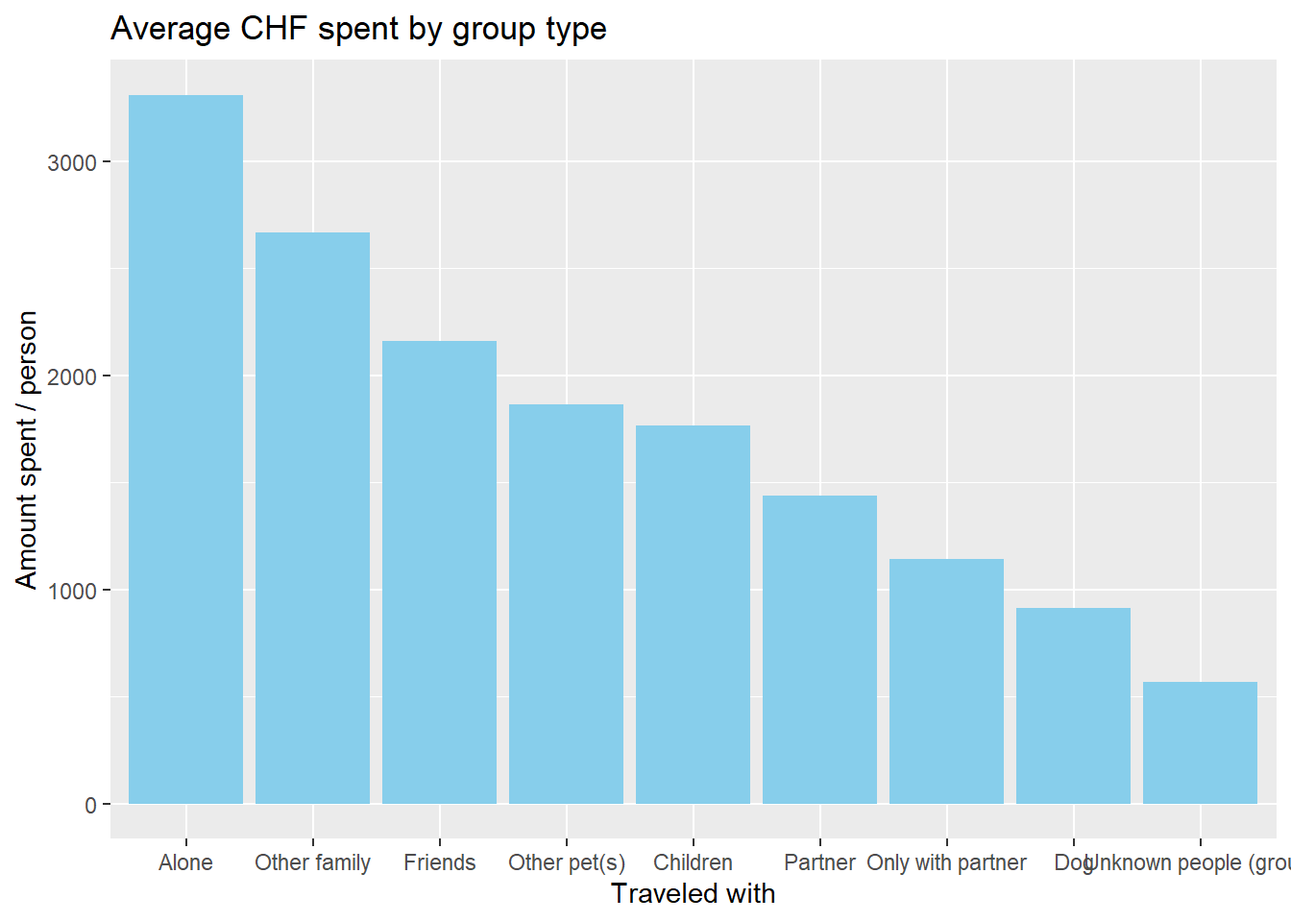
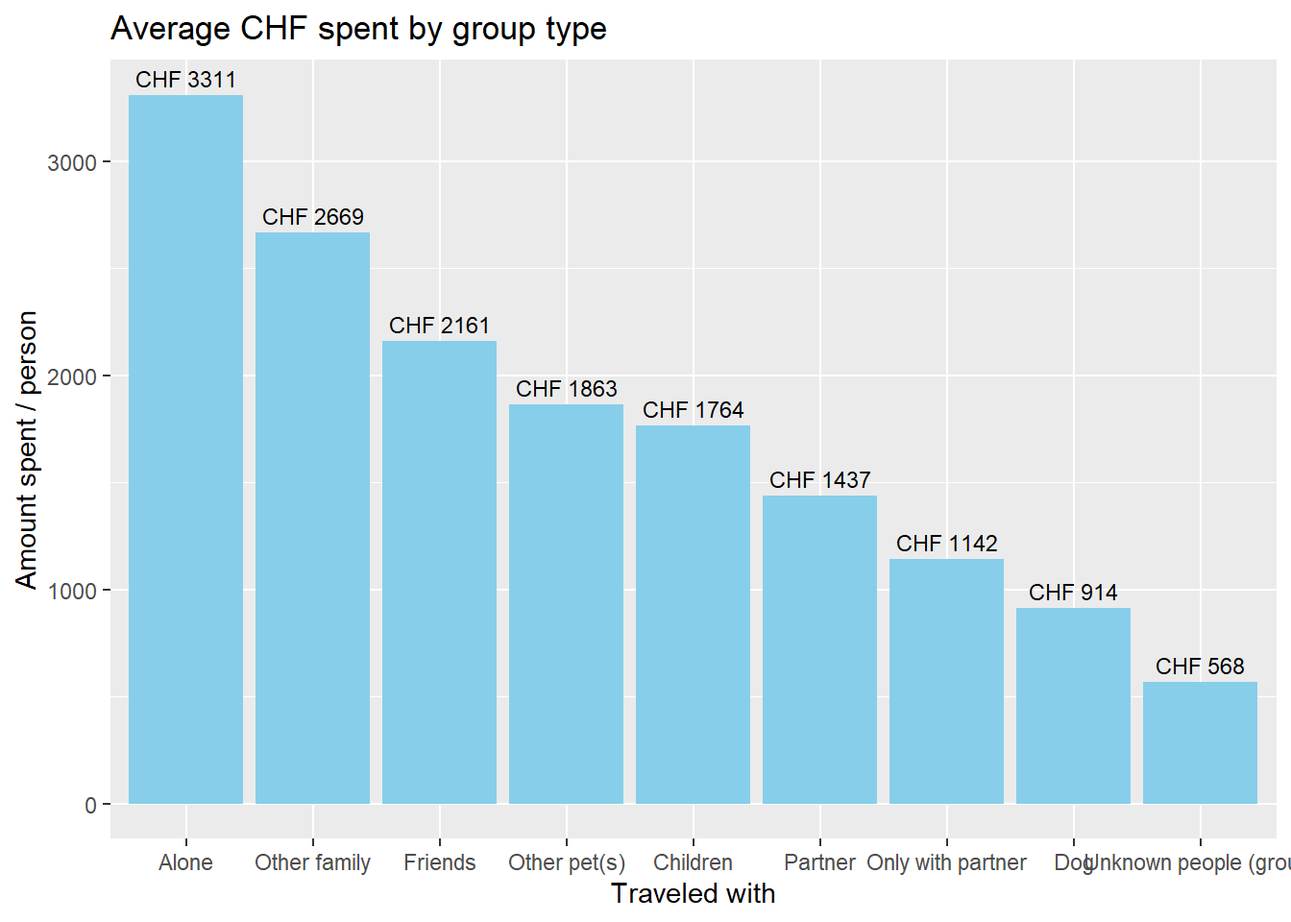
analysis

diff --git a/report/analysis.html b/report/analysis.html
@@ -97,10 +97,167 @@ pre > code.sourceCode > span > a:first-child::before { text-decoration: underlin
 <div class="sourceCode cell-code" id="cb2"><pre class="sourceCode r code-with-copy"><code class="sourceCode r"><span id="cb2-1"><a href="#cb2-1" aria-hidden="true" tabindex="-1"></a><span class="co">#Plot frequency</span></span>
 <span id="cb2-2"><a href="#cb2-2" aria-hidden="true" tabindex="-1"></a><span class="fu">ggplot</span>(df_sums_df, <span class="fu">aes</span>(<span class="at">x =</span> Column, <span class="at">y =</span> Spent)) <span class="sc">+</span></span>
 <span id="cb2-3"><a href="#cb2-3" aria-hidden="true" tabindex="-1"></a>  <span class="fu">geom_bar</span>(<span class="at">stat =</span> <span class="st">"identity"</span>, <span class="at">fill =</span> <span class="st">"skyblue"</span>) <span class="sc">+</span></span>
-<span id="cb2-4"><a href="#cb2-4" aria-hidden="true" tabindex="-1"></a>  <span class="fu">labs</span>(<span class="at">title =</span> <span class="st">"Average CHF spent by group type"</span>, <span class="at">x =</span> <span class="st">"Traveled with"</span>, <span class="at">y =</span> <span class="st">"Amount spent / person"</span>)</span></code><button title="Copy to Clipboard" class="code-copy-button"><i class="bi"></i></button></pre></div>
+<span id="cb2-4"><a href="#cb2-4" aria-hidden="true" tabindex="-1"></a>  <span class="fu">geom_text</span>(<span class="fu">aes</span>(<span class="at">label =</span> <span class="fu">paste0</span>(<span class="st">"CHF "</span>, <span class="fu">round</span>(Spent, <span class="dv">0</span>))), <span class="at">vjust =</span> <span class="sc">-</span><span class="fl">0.5</span>, <span class="at">size =</span> <span class="dv">3</span>, <span class="at">color =</span> <span class="st">"black"</span>) <span class="sc">+</span></span>
+<span id="cb2-5"><a href="#cb2-5" aria-hidden="true" tabindex="-1"></a>  <span class="fu">labs</span>(<span class="at">title =</span> <span class="st">"Average CHF spent by group type"</span>, <span class="at">x =</span> <span class="st">"Traveled with"</span>, <span class="at">y =</span> <span class="st">"Amount spent / person"</span>)</span></code><button title="Copy to Clipboard" class="code-copy-button"><i class="bi"></i></button></pre></div>
 </details>
 <div class="cell-output-display">
 <p><img src="analysis_files/figure-html/unnamed-chunk-3-1.png" class="img-fluid" width="672"></p>
+</div>
+</div>
+<p>Here we have calcuated the average total CHF spent during a trip to Vaud, per person, depending on who the respondent has traveled with.</p>
+</section>
+<section id="travel-group-type-by-nation" class="level2">
+<h2 class="anchored" data-anchor-id="travel-group-type-by-nation">Travel group type by nation</h2>
+<div class="cell">
+<details>
+<summary>Code</summary>
+<div class="sourceCode cell-code" id="cb3"><pre class="sourceCode r code-with-copy"><code class="sourceCode r"><span id="cb3-1"><a href="#cb3-1" aria-hidden="true" tabindex="-1"></a><span class="co"># Type of groups x Country of origin</span></span>
+<span id="cb3-2"><a href="#cb3-2" aria-hidden="true" tabindex="-1"></a><span class="co"># Create bin columns for top 5 countries</span></span>
+<span id="cb3-3"><a href="#cb3-3" aria-hidden="true" tabindex="-1"></a>data<span class="sc">$</span>swiss <span class="ot">&lt;-</span> <span class="fu">ifelse</span>(data<span class="sc">$</span>F05_02 <span class="sc">==</span> <span class="st">"Schweiz"</span>, <span class="dv">1</span>, <span class="dv">0</span>)</span>
+<span id="cb3-4"><a href="#cb3-4" aria-hidden="true" tabindex="-1"></a>data<span class="sc">$</span>french <span class="ot">&lt;-</span> <span class="fu">ifelse</span>(data<span class="sc">$</span>F05_02 <span class="sc">==</span> <span class="st">"Frankreich"</span>, <span class="dv">1</span>, <span class="dv">0</span>)</span>
+<span id="cb3-5"><a href="#cb3-5" aria-hidden="true" tabindex="-1"></a>data<span class="sc">$</span>british <span class="ot">&lt;-</span> <span class="fu">ifelse</span>(data<span class="sc">$</span>F05_02_ENG <span class="sc">==</span> <span class="st">"United Kingdom"</span>, <span class="dv">1</span>, <span class="dv">0</span>)</span>
+<span id="cb3-6"><a href="#cb3-6" aria-hidden="true" tabindex="-1"></a>data<span class="sc">$</span>german <span class="ot">&lt;-</span> <span class="fu">ifelse</span>(data<span class="sc">$</span>F05_02 <span class="sc">==</span> <span class="st">"Deutschland"</span>, <span class="dv">1</span>, <span class="dv">0</span>)</span>
+<span id="cb3-7"><a href="#cb3-7" aria-hidden="true" tabindex="-1"></a>data<span class="sc">$</span>american <span class="ot">&lt;-</span> <span class="fu">ifelse</span>(data<span class="sc">$</span>F05_02_ENG <span class="sc">==</span> <span class="st">"United States of America"</span>, <span class="dv">1</span>, <span class="dv">0</span>)</span>
+<span id="cb3-8"><a href="#cb3-8" aria-hidden="true" tabindex="-1"></a></span>
+<span id="cb3-9"><a href="#cb3-9" aria-hidden="true" tabindex="-1"></a><span class="co"># Add columns to df</span></span>
+<span id="cb3-10"><a href="#cb3-10" aria-hidden="true" tabindex="-1"></a>df<span class="sc">$</span>swiss <span class="ot">&lt;-</span> data<span class="sc">$</span>swiss</span>
+<span id="cb3-11"><a href="#cb3-11" aria-hidden="true" tabindex="-1"></a>df<span class="sc">$</span>french <span class="ot">&lt;-</span> data<span class="sc">$</span>french</span>
+<span id="cb3-12"><a href="#cb3-12" aria-hidden="true" tabindex="-1"></a>df<span class="sc">$</span>british <span class="ot">&lt;-</span> data<span class="sc">$</span>british</span>
+<span id="cb3-13"><a href="#cb3-13" aria-hidden="true" tabindex="-1"></a>df<span class="sc">$</span>german <span class="ot">&lt;-</span> data<span class="sc">$</span>german</span>
+<span id="cb3-14"><a href="#cb3-14" aria-hidden="true" tabindex="-1"></a>df<span class="sc">$</span>american <span class="ot">&lt;-</span> data<span class="sc">$</span>american</span>
+<span id="cb3-15"><a href="#cb3-15" aria-hidden="true" tabindex="-1"></a></span>
+<span id="cb3-16"><a href="#cb3-16" aria-hidden="true" tabindex="-1"></a><span class="co"># Create new df</span></span>
+<span id="cb3-17"><a href="#cb3-17" aria-hidden="true" tabindex="-1"></a>column_names <span class="ot">&lt;-</span> <span class="fu">c</span>(<span class="st">"column_name"</span>, <span class="st">"group_name"</span>, <span class="st">"swiss"</span>, <span class="st">"french"</span>, <span class="st">"british"</span>, <span class="st">"german"</span>, <span class="st">"american"</span>)</span>
+<span id="cb3-18"><a href="#cb3-18" aria-hidden="true" tabindex="-1"></a>rows <span class="ot">&lt;-</span> <span class="fu">c</span>(<span class="st">"Alone"</span>, <span class="st">"Partner"</span>, <span class="st">"Friends"</span>, <span class="st">"Children"</span>, <span class="st">"Other family"</span>, </span>
+<span id="cb3-19"><a href="#cb3-19" aria-hidden="true" tabindex="-1"></a>          <span class="st">"Unknown people (group)"</span>, <span class="st">"Dog"</span>, <span class="st">"Other pet(s)"</span>, <span class="st">"Only with partner"</span>)</span>
+<span id="cb3-20"><a href="#cb3-20" aria-hidden="true" tabindex="-1"></a>nations_groups <span class="ot">&lt;-</span> <span class="fu">data.frame</span>(<span class="fu">matrix</span>(<span class="at">ncol=</span><span class="fu">length</span>(column_names), <span class="at">nrow =</span> <span class="fu">length</span>(rows)))</span>
+<span id="cb3-21"><a href="#cb3-21" aria-hidden="true" tabindex="-1"></a><span class="fu">colnames</span>(nations_groups) <span class="ot">&lt;-</span> column_names</span>
+<span id="cb3-22"><a href="#cb3-22" aria-hidden="true" tabindex="-1"></a>nations_groups<span class="sc">$</span>group_name <span class="ot">&lt;-</span> rows</span>
+<span id="cb3-23"><a href="#cb3-23" aria-hidden="true" tabindex="-1"></a>nations_groups<span class="sc">$</span>column_name <span class="ot">&lt;-</span> <span class="fu">colnames</span>(df)[<span class="dv">1</span><span class="sc">:</span><span class="fu">nrow</span>(nations_groups)]</span>
+<span id="cb3-24"><a href="#cb3-24" aria-hidden="true" tabindex="-1"></a></span>
+<span id="cb3-25"><a href="#cb3-25" aria-hidden="true" tabindex="-1"></a><span class="co"># Initialize a list to store sums for each nation</span></span>
+<span id="cb3-26"><a href="#cb3-26" aria-hidden="true" tabindex="-1"></a>sums_list <span class="ot">&lt;-</span> <span class="fu">list</span>()</span>
+<span id="cb3-27"><a href="#cb3-27" aria-hidden="true" tabindex="-1"></a></span>
+<span id="cb3-28"><a href="#cb3-28" aria-hidden="true" tabindex="-1"></a><span class="co"># Iterate over each row in nations_groups dataframe</span></span>
+<span id="cb3-29"><a href="#cb3-29" aria-hidden="true" tabindex="-1"></a><span class="cf">for</span> (i <span class="cf">in</span> <span class="dv">1</span><span class="sc">:</span><span class="fu">nrow</span>(nations_groups)) {</span>
+<span id="cb3-30"><a href="#cb3-30" aria-hidden="true" tabindex="-1"></a>  <span class="co"># Get the column name and group name from the current row</span></span>
+<span id="cb3-31"><a href="#cb3-31" aria-hidden="true" tabindex="-1"></a>  column_name <span class="ot">&lt;-</span> nations_groups[i, <span class="st">"column_name"</span>]</span>
+<span id="cb3-32"><a href="#cb3-32" aria-hidden="true" tabindex="-1"></a>  group_name <span class="ot">&lt;-</span> nations_groups[i, <span class="st">"group_name"</span>]</span>
+<span id="cb3-33"><a href="#cb3-33" aria-hidden="true" tabindex="-1"></a>  </span>
+<span id="cb3-34"><a href="#cb3-34" aria-hidden="true" tabindex="-1"></a>  <span class="co"># Calculate sum for each nation</span></span>
+<span id="cb3-35"><a href="#cb3-35" aria-hidden="true" tabindex="-1"></a>  sums <span class="ot">&lt;-</span> <span class="fu">c</span>(</span>
+<span id="cb3-36"><a href="#cb3-36" aria-hidden="true" tabindex="-1"></a>    <span class="fu">sum</span>(df[df<span class="sc">$</span>swiss <span class="sc">==</span> <span class="dv">1</span>, column_name], <span class="at">na.rm =</span> <span class="cn">TRUE</span>),</span>
+<span id="cb3-37"><a href="#cb3-37" aria-hidden="true" tabindex="-1"></a>    <span class="fu">sum</span>(df[df<span class="sc">$</span>french <span class="sc">==</span> <span class="dv">1</span>, column_name], <span class="at">na.rm =</span> <span class="cn">TRUE</span>),</span>
+<span id="cb3-38"><a href="#cb3-38" aria-hidden="true" tabindex="-1"></a>    <span class="fu">sum</span>(df[df<span class="sc">$</span>british <span class="sc">==</span> <span class="dv">1</span>, column_name], <span class="at">na.rm =</span> <span class="cn">TRUE</span>),</span>
+<span id="cb3-39"><a href="#cb3-39" aria-hidden="true" tabindex="-1"></a>    <span class="fu">sum</span>(df[df<span class="sc">$</span>german <span class="sc">==</span> <span class="dv">1</span>, column_name], <span class="at">na.rm =</span> <span class="cn">TRUE</span>),</span>
+<span id="cb3-40"><a href="#cb3-40" aria-hidden="true" tabindex="-1"></a>    <span class="fu">sum</span>(df[df<span class="sc">$</span>american <span class="sc">==</span> <span class="dv">1</span>, column_name], <span class="at">na.rm =</span> <span class="cn">TRUE</span>)</span>
+<span id="cb3-41"><a href="#cb3-41" aria-hidden="true" tabindex="-1"></a>  )</span>
+<span id="cb3-42"><a href="#cb3-42" aria-hidden="true" tabindex="-1"></a>  </span>
+<span id="cb3-43"><a href="#cb3-43" aria-hidden="true" tabindex="-1"></a>  <span class="co"># Add sums to the list</span></span>
+<span id="cb3-44"><a href="#cb3-44" aria-hidden="true" tabindex="-1"></a>  sums_list[[i]] <span class="ot">&lt;-</span> <span class="fu">c</span>(group_name, column_name, sums)</span>
+<span id="cb3-45"><a href="#cb3-45" aria-hidden="true" tabindex="-1"></a>}</span>
+<span id="cb3-46"><a href="#cb3-46" aria-hidden="true" tabindex="-1"></a></span>
+<span id="cb3-47"><a href="#cb3-47" aria-hidden="true" tabindex="-1"></a><span class="co"># Convert the list to a dataframe</span></span>
+<span id="cb3-48"><a href="#cb3-48" aria-hidden="true" tabindex="-1"></a>sums_df <span class="ot">&lt;-</span> <span class="fu">as.data.frame</span>(<span class="fu">do.call</span>(rbind, sums_list))</span>
+<span id="cb3-49"><a href="#cb3-49" aria-hidden="true" tabindex="-1"></a></span>
+<span id="cb3-50"><a href="#cb3-50" aria-hidden="true" tabindex="-1"></a><span class="co"># Add column names to the dataframe</span></span>
+<span id="cb3-51"><a href="#cb3-51" aria-hidden="true" tabindex="-1"></a><span class="fu">colnames</span>(sums_df) <span class="ot">&lt;-</span> <span class="fu">c</span>(<span class="st">"group_name"</span>, <span class="st">"column_name"</span>, <span class="st">"swiss"</span>, <span class="st">"french"</span>, <span class="st">"british"</span>, <span class="st">"german"</span>, <span class="st">"american"</span>)</span>
+<span id="cb3-52"><a href="#cb3-52" aria-hidden="true" tabindex="-1"></a></span>
+<span id="cb3-53"><a href="#cb3-53" aria-hidden="true" tabindex="-1"></a><span class="co"># Transform to percentages</span></span>
+<span id="cb3-54"><a href="#cb3-54" aria-hidden="true" tabindex="-1"></a>sums_df<span class="sc">$</span>swiss <span class="ot">&lt;-</span> <span class="fu">round</span>(<span class="dv">100</span><span class="sc">*</span><span class="fu">as.numeric</span>(sums_df[, <span class="st">"swiss"</span>])<span class="sc">/</span><span class="fu">sum</span>(df<span class="sc">$</span>swiss <span class="sc">==</span> <span class="dv">1</span>), <span class="dv">2</span>)</span>
+<span id="cb3-55"><a href="#cb3-55" aria-hidden="true" tabindex="-1"></a>sums_df<span class="sc">$</span>french <span class="ot">&lt;-</span> <span class="fu">round</span>(<span class="dv">100</span><span class="sc">*</span><span class="fu">as.numeric</span>(sums_df[, <span class="st">"french"</span>])<span class="sc">/</span><span class="fu">sum</span>(df<span class="sc">$</span>french <span class="sc">==</span> <span class="dv">1</span>), <span class="dv">2</span>)</span>
+<span id="cb3-56"><a href="#cb3-56" aria-hidden="true" tabindex="-1"></a>sums_df<span class="sc">$</span>british <span class="ot">&lt;-</span> <span class="fu">round</span>(<span class="dv">100</span><span class="sc">*</span><span class="fu">as.numeric</span>(sums_df[, <span class="st">"british"</span>])<span class="sc">/</span><span class="fu">sum</span>(df<span class="sc">$</span>british <span class="sc">==</span> <span class="dv">1</span>), <span class="dv">2</span>)</span>
+<span id="cb3-57"><a href="#cb3-57" aria-hidden="true" tabindex="-1"></a>sums_df<span class="sc">$</span>german <span class="ot">&lt;-</span> <span class="fu">round</span>(<span class="dv">100</span><span class="sc">*</span><span class="fu">as.numeric</span>(sums_df[, <span class="st">"german"</span>])<span class="sc">/</span><span class="fu">sum</span>(df<span class="sc">$</span>german <span class="sc">==</span> <span class="dv">1</span>), <span class="dv">2</span>)</span>
+<span id="cb3-58"><a href="#cb3-58" aria-hidden="true" tabindex="-1"></a>sums_df<span class="sc">$</span>american <span class="ot">&lt;-</span> <span class="fu">round</span>(<span class="dv">100</span><span class="sc">*</span><span class="fu">as.numeric</span>(sums_df[, <span class="st">"american"</span>])<span class="sc">/</span><span class="fu">sum</span>(df<span class="sc">$</span>american <span class="sc">==</span> <span class="dv">1</span>), <span class="dv">2</span>)</span>
+<span id="cb3-59"><a href="#cb3-59" aria-hidden="true" tabindex="-1"></a></span>
+<span id="cb3-60"><a href="#cb3-60" aria-hidden="true" tabindex="-1"></a><span class="co"># Print the resulting dataframe</span></span>
+<span id="cb3-61"><a href="#cb3-61" aria-hidden="true" tabindex="-1"></a><span class="co">#print(sums_df)</span></span>
+<span id="cb3-62"><a href="#cb3-62" aria-hidden="true" tabindex="-1"></a></span>
+<span id="cb3-63"><a href="#cb3-63" aria-hidden="true" tabindex="-1"></a><span class="co"># Plot group types by nation</span></span></code><button title="Copy to Clipboard" class="code-copy-button"><i class="bi"></i></button></pre></div>
+</details>
+</div>
+<p>Here we can see the group types of travelers (Alone, with partner, with children, etc.) For each of the top 5 nations of origin of tourists.</p>
+<div class="tabset-margin-container"></div><div class="panel-tabset">
+<ul class="nav nav-tabs" role="tablist"><li class="nav-item" role="presentation"><a class="nav-link active" id="tabset-1-1-tab" data-bs-toggle="tab" data-bs-target="#tabset-1-1" role="tab" aria-controls="tabset-1-1" aria-selected="true" href="">Swiss</a></li><li class="nav-item" role="presentation"><a class="nav-link" id="tabset-1-2-tab" data-bs-toggle="tab" data-bs-target="#tabset-1-2" role="tab" aria-controls="tabset-1-2" aria-selected="false" href="">French</a></li><li class="nav-item" role="presentation"><a class="nav-link" id="tabset-1-3-tab" data-bs-toggle="tab" data-bs-target="#tabset-1-3" role="tab" aria-controls="tabset-1-3" aria-selected="false" href="">British</a></li><li class="nav-item" role="presentation"><a class="nav-link" id="tabset-1-4-tab" data-bs-toggle="tab" data-bs-target="#tabset-1-4" role="tab" aria-controls="tabset-1-4" aria-selected="false" href="">German</a></li><li class="nav-item" role="presentation"><a class="nav-link" id="tabset-1-5-tab" data-bs-toggle="tab" data-bs-target="#tabset-1-5" role="tab" aria-controls="tabset-1-5" aria-selected="false" href="">American</a></li></ul>
+<div class="tab-content">
+<div id="tabset-1-1" class="tab-pane active" role="tabpanel" aria-labelledby="tabset-1-1-tab">
+<div class="cell">
+<details>
+<summary>Code</summary>
+<div class="sourceCode cell-code" id="cb4"><pre class="sourceCode r code-with-copy"><code class="sourceCode r"><span id="cb4-1"><a href="#cb4-1" aria-hidden="true" tabindex="-1"></a><span class="fu">ggplot</span>(sums_df, <span class="fu">aes</span>(<span class="at">x =</span> group_name, <span class="at">y =</span> swiss)) <span class="sc">+</span></span>
+<span id="cb4-2"><a href="#cb4-2" aria-hidden="true" tabindex="-1"></a>  <span class="fu">geom_bar</span>(<span class="at">stat =</span> <span class="st">"identity"</span>, <span class="at">fill =</span> <span class="st">"skyblue"</span>) <span class="sc">+</span></span>
+<span id="cb4-3"><a href="#cb4-3" aria-hidden="true" tabindex="-1"></a>  <span class="fu">ylim</span>(<span class="dv">0</span>, <span class="dv">100</span>) <span class="sc">+</span></span>
+<span id="cb4-4"><a href="#cb4-4" aria-hidden="true" tabindex="-1"></a>  <span class="fu">labs</span>(<span class="at">title =</span> <span class="st">"Group types for Swiss tourists"</span>, <span class="at">x =</span> <span class="st">"Traveled with"</span>, <span class="at">y =</span> <span class="st">"Percentage"</span>) <span class="sc">+</span></span>
+<span id="cb4-5"><a href="#cb4-5" aria-hidden="true" tabindex="-1"></a>  <span class="fu">geom_text</span>(<span class="fu">aes</span>(<span class="at">label =</span> <span class="fu">paste0</span>(swiss, <span class="st">"%"</span>)), <span class="at">vjust =</span> <span class="sc">-</span><span class="fl">0.5</span>, <span class="at">size =</span> <span class="dv">3</span>)</span></code><button title="Copy to Clipboard" class="code-copy-button"><i class="bi"></i></button></pre></div>
+</details>
+<div class="cell-output-display">
+<p><img src="analysis_files/figure-html/unnamed-chunk-5-1.png" class="img-fluid" width="672"></p>
+</div>
+</div>
+<p>Swiss tourists are more likely than other nations to travel with children. They are also most likely to be traveling with a partner. This suggests that they are more likely to be visiting as a family than other tourists.</p>
+</div>
+<div id="tabset-1-2" class="tab-pane" role="tabpanel" aria-labelledby="tabset-1-2-tab">
+<div class="cell">
+<details>
+<summary>Code</summary>
+<div class="sourceCode cell-code" id="cb5"><pre class="sourceCode r code-with-copy"><code class="sourceCode r"><span id="cb5-1"><a href="#cb5-1" aria-hidden="true" tabindex="-1"></a><span class="fu">ggplot</span>(sums_df, <span class="fu">aes</span>(<span class="at">x =</span> group_name, <span class="at">y =</span> french)) <span class="sc">+</span></span>
+<span id="cb5-2"><a href="#cb5-2" aria-hidden="true" tabindex="-1"></a>  <span class="fu">geom_bar</span>(<span class="at">stat =</span> <span class="st">"identity"</span>, <span class="at">fill =</span> <span class="st">"skyblue"</span>) <span class="sc">+</span></span>
+<span id="cb5-3"><a href="#cb5-3" aria-hidden="true" tabindex="-1"></a>  <span class="fu">ylim</span>(<span class="dv">0</span>, <span class="dv">100</span>) <span class="sc">+</span></span>
+<span id="cb5-4"><a href="#cb5-4" aria-hidden="true" tabindex="-1"></a>  <span class="fu">labs</span>(<span class="at">title =</span> <span class="st">"Group types for French tourists"</span>, <span class="at">x =</span> <span class="st">"Traveled with"</span>, <span class="at">y =</span> <span class="st">"Percentage"</span>) <span class="sc">+</span></span>
+<span id="cb5-5"><a href="#cb5-5" aria-hidden="true" tabindex="-1"></a>  <span class="fu">geom_text</span>(<span class="fu">aes</span>(<span class="at">label =</span> <span class="fu">paste0</span>(french)), <span class="at">vjust =</span> <span class="sc">-</span><span class="fl">0.5</span>, <span class="at">size =</span> <span class="dv">3</span>)</span></code><button title="Copy to Clipboard" class="code-copy-button"><i class="bi"></i></button></pre></div>
+</details>
+<div class="cell-output-display">
+<p><img src="analysis_files/figure-html/unnamed-chunk-6-1.png" class="img-fluid" width="672"></p>
+</div>
+</div>
+</div>
+<div id="tabset-1-3" class="tab-pane" role="tabpanel" aria-labelledby="tabset-1-3-tab">
+<div class="cell">
+<details>
+<summary>Code</summary>
+<div class="sourceCode cell-code" id="cb6"><pre class="sourceCode r code-with-copy"><code class="sourceCode r"><span id="cb6-1"><a href="#cb6-1" aria-hidden="true" tabindex="-1"></a><span class="fu">ggplot</span>(sums_df, <span class="fu">aes</span>(<span class="at">x =</span> group_name, <span class="at">y =</span> british)) <span class="sc">+</span></span>
+<span id="cb6-2"><a href="#cb6-2" aria-hidden="true" tabindex="-1"></a>  <span class="fu">geom_bar</span>(<span class="at">stat =</span> <span class="st">"identity"</span>, <span class="at">fill =</span> <span class="st">"skyblue"</span>) <span class="sc">+</span></span>
+<span id="cb6-3"><a href="#cb6-3" aria-hidden="true" tabindex="-1"></a>  <span class="fu">ylim</span>(<span class="dv">0</span>, <span class="dv">100</span>) <span class="sc">+</span></span>
+<span id="cb6-4"><a href="#cb6-4" aria-hidden="true" tabindex="-1"></a>  <span class="fu">labs</span>(<span class="at">title =</span> <span class="st">"Group types for British tourists"</span>, <span class="at">x =</span> <span class="st">"Traveled with"</span>, <span class="at">y =</span> <span class="st">"Percentage"</span>) <span class="sc">+</span></span>
+<span id="cb6-5"><a href="#cb6-5" aria-hidden="true" tabindex="-1"></a>  <span class="fu">geom_text</span>(<span class="fu">aes</span>(<span class="at">label =</span> <span class="fu">paste0</span>(british, <span class="st">"%"</span>)), <span class="at">vjust =</span> <span class="sc">-</span><span class="fl">0.5</span>, <span class="at">size =</span> <span class="dv">3</span>)</span></code><button title="Copy to Clipboard" class="code-copy-button"><i class="bi"></i></button></pre></div>
+</details>
+<div class="cell-output-display">
+<p><img src="analysis_files/figure-html/unnamed-chunk-7-1.png" class="img-fluid" width="672"></p>
+</div>
+</div>
+</div>
+<div id="tabset-1-4" class="tab-pane" role="tabpanel" aria-labelledby="tabset-1-4-tab">
+<div class="cell">
+<details>
+<summary>Code</summary>
+<div class="sourceCode cell-code" id="cb7"><pre class="sourceCode r code-with-copy"><code class="sourceCode r"><span id="cb7-1"><a href="#cb7-1" aria-hidden="true" tabindex="-1"></a><span class="fu">ggplot</span>(sums_df, <span class="fu">aes</span>(<span class="at">x =</span> group_name, <span class="at">y =</span> german)) <span class="sc">+</span></span>
+<span id="cb7-2"><a href="#cb7-2" aria-hidden="true" tabindex="-1"></a>  <span class="fu">geom_bar</span>(<span class="at">stat =</span> <span class="st">"identity"</span>, <span class="at">fill =</span> <span class="st">"skyblue"</span>) <span class="sc">+</span></span>
+<span id="cb7-3"><a href="#cb7-3" aria-hidden="true" tabindex="-1"></a>  <span class="fu">ylim</span>(<span class="dv">0</span>, <span class="dv">100</span>) <span class="sc">+</span></span>
+<span id="cb7-4"><a href="#cb7-4" aria-hidden="true" tabindex="-1"></a>  <span class="fu">labs</span>(<span class="at">title =</span> <span class="st">"Group types for German tourists"</span>, <span class="at">x =</span> <span class="st">"Traveled with"</span>, <span class="at">y =</span> <span class="st">"Percentage"</span>) <span class="sc">+</span></span>
+<span id="cb7-5"><a href="#cb7-5" aria-hidden="true" tabindex="-1"></a>  <span class="fu">geom_text</span>(<span class="fu">aes</span>(<span class="at">label =</span> <span class="fu">paste0</span>(german, <span class="st">"%"</span>)), <span class="at">vjust =</span> <span class="sc">-</span><span class="fl">0.5</span>, <span class="at">size =</span> <span class="dv">3</span>)</span></code><button title="Copy to Clipboard" class="code-copy-button"><i class="bi"></i></button></pre></div>
+</details>
+<div class="cell-output-display">
+<p><img src="analysis_files/figure-html/unnamed-chunk-8-1.png" class="img-fluid" width="672"></p>
+</div>
+</div>
+<p>German tourists are the most likely of these countries to be traveling only with their partner, as a couple.</p>
+</div>
+<div id="tabset-1-5" class="tab-pane" role="tabpanel" aria-labelledby="tabset-1-5-tab">
+<div class="cell">
+<details>
+<summary>Code</summary>
+<div class="sourceCode cell-code" id="cb8"><pre class="sourceCode r code-with-copy"><code class="sourceCode r"><span id="cb8-1"><a href="#cb8-1" aria-hidden="true" tabindex="-1"></a><span class="fu">ggplot</span>(sums_df, <span class="fu">aes</span>(<span class="at">x =</span> group_name, <span class="at">y =</span> american)) <span class="sc">+</span></span>
+<span id="cb8-2"><a href="#cb8-2" aria-hidden="true" tabindex="-1"></a>  <span class="fu">geom_bar</span>(<span class="at">stat =</span> <span class="st">"identity"</span>, <span class="at">fill =</span> <span class="st">"skyblue"</span>) <span class="sc">+</span></span>
+<span id="cb8-3"><a href="#cb8-3" aria-hidden="true" tabindex="-1"></a>  <span class="fu">ylim</span>(<span class="dv">0</span>, <span class="dv">100</span>) <span class="sc">+</span></span>
+<span id="cb8-4"><a href="#cb8-4" aria-hidden="true" tabindex="-1"></a>  <span class="fu">labs</span>(<span class="at">title =</span> <span class="st">"Group types for American tourists"</span>, <span class="at">x =</span> <span class="st">"Traveled with"</span>, <span class="at">y =</span> <span class="st">"Percentage"</span>) <span class="sc">+</span></span>
+<span id="cb8-5"><a href="#cb8-5" aria-hidden="true" tabindex="-1"></a>  <span class="fu">geom_text</span>(<span class="fu">aes</span>(<span class="at">label =</span> <span class="fu">paste0</span>(american, <span class="st">"%"</span>)), <span class="at">vjust =</span> <span class="sc">-</span><span class="fl">0.5</span>, <span class="at">size =</span> <span class="dv">3</span>)</span></code><button title="Copy to Clipboard" class="code-copy-button"><i class="bi"></i></button></pre></div>
+</details>
+<div class="cell-output-display">
+<p><img src="analysis_files/figure-html/unnamed-chunk-9-1.png" class="img-fluid" width="672"></p>
+</div>
+</div>
+<p>American tourists have by far the highest percentage of tourists traveling alone, as well as in a group of unknown people. This suggests they are more likely to be on a solo trip to Switzerland, and also be in an organised group tour with other strangers.</p>
+</div>
 </div>
 </div>
 </section>
